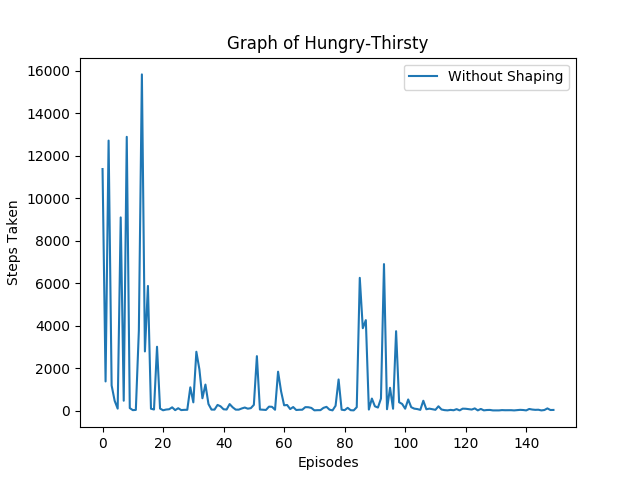
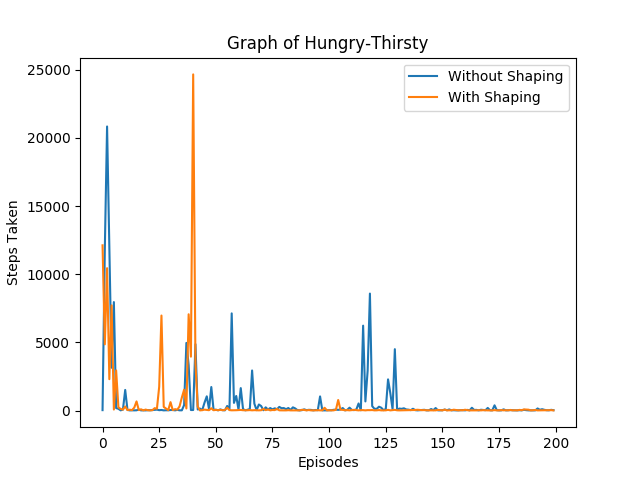
RS added to Hungry-Thirsty

diff --git a/player.py b/player.py
@@ -22,23 +22,23 @@ class player:
 			next_state-=n*n
 		return next_state,reward,finished
 
-	def transition_with_reward_shaping(self,state,action,type):
+	def transition_with_reward_shaping(self,state,action,tor):
 		n = self.grid.n
 		collected = int(state/(n*n))
 		x = int((state%(n*n))/n)
 		y = state%n
 		[x1,y1,collected1,reward,finished]=self.grid.take_action(x,y,action)
-		reward = reward + self.reward_self(x,y,collected,x1,y1,collected1,type)
+		reward = reward + self.reward_self(x,y,collected,x1,y1,collected1,tor)
 		self.states.append([x1,y1])
 		next_state=int(collected1*n*n + x1*n + y1)
 		if finished:
 			next_state-=n*n
 		return next_state,reward,finished
 
-	def reward_self(self,x,y,collected,x1,y1,collected1,type):
-		if type==1:
+	def reward_self(self,x,y,collected,x1,y1,collected1,tor):
+		if tor==1:
 			return self.phi(x,y,collected) - self.phi(x1,y1,collected) 
-		elif type==2:
+		elif tor==2:
 			return self.phi2(x,y,collected) - self.phi2(x1,y1,collected1) 
 
 	def phi(self,x,y,collected):
@@ -74,6 +74,49 @@ class htpl:
 		# if finished:
 		# 	next_state-=n*n
 		return next_state,reward,finished
+
+	def transition_with_reward_shaping(self,state,action,tor):
+		n = self.grid.n
+		# collected = int(state/(n*n))
+		t = int(state/(n*n));
+		temp = state%(n*n);
+
+		x = int((temp)/n)
+		y = temp%n
+		[x1,y1,t1,reward,finished]=self.grid.take_action(x,y,t,action)
+		reward = reward + self.reward_self(x,y,t,x1,y1,t1,tor)
+		self.states.append([x1,y1])
+		next_state=int(t1*n*n + x1*n + y1)
+		# if finished:
+		# 	next_state-=n*n
+		return next_state,reward,finished
+
+	def reward_self(self,x,y,t,x1,y1,t1,tor):
+		if tor == 1:
+			return self.phi(x,y,t) - self.phi(x1,y1,t1)
+
+	def phi(self,x,y,t):
+		distf = abs(self.grid.wpos[0] - self.grid.fpos[0]) + abs(self.grid.wpos[1] - self.grid.fpos[1])
+		dist =  abs(self.grid.wpos[0] - x) + abs(self.grid.wpos[1] - y)
+		disf =  abs(self.grid.fpos[0] - x) + abs(self.grid.fpos[1] - y)
+		p = self.grid.p
+		v0 = (1-p)**distf
+		ezero = 2*(1-v0)/(p*v0) - distf
+		v1 = (1-p)**disf
+		egen = 2*(1-v1)/p - (v1)*disf + (ezero + dist)*(1-v1)
+		if t == 0:
+			# return dist + distf
+			if p == 0:
+				return dist + distf
+			else:
+				return dist + ezero
+		elif t==1:
+	 		# return disf
+	 		if p == 0:
+	 			return disf
+	 		else:
+	 			return egen
+	 	 	 
 
 	def reset(self):
 		self.states=[[0,0]]

diff --git a/main.py b/main.py
@@ -16,7 +16,7 @@ n=10
 p=0.1
 eps = 1
 num_actions = 4
-num_episode = 150
+num_episode = 200
 lr = 0.5
 
 #######Flag positions############
@@ -53,23 +53,33 @@ action_map2 = {0:"\u2191",1:"\u2193",2:"\u2192",3:"\u2190"}
 grid = htgrid(n,p,allowed,fpos,wpos,"Optimal Action Without Shaping")
 
 pl = htpl(grid)
-
-Q,stepsPerEpisode=q_learning(pl,lr,eps,num_episode,num_states,num_actions,0)
+res = np.zeros(num_episode)
+for x in range(0,10):
+	Q,stepsPerEpisode = q_learning(pl,lr,eps,num_episode,num_states,num_actions,0)
+	res = res + np.array(stepsPerEpisode)
+res = res/10
 print(estimate_V(Q,num_states,num_actions))
 gui=show_Q_path(n,Q,action_map2,pl,"path without shaping")
 
-plt.plot(range(num_episode),stepsPerEpisode,label='Without Shaping')
+# plt.plot(range(num_episode),res,label='Without Shaping')
+plt.plot(range(num_episode),np.cumsum(res),label='Without Shaping')
 
 #############################################################################################
 
 # grid.__init__(n,p,flag_pos,allowed,"Optimal Action With Shaping")
-# pl.__init__(grid)
-
+grid.__init__(n,p,allowed,fpos,wpos,"Optimal Action With Shaping")
+pl.__init__(grid)
+res = np.zeros(num_episode)
+for x in range(0,10):
+	Q_shaping,stepsPerEpisode_shaping = q_learning(pl,lr,eps,num_episode,num_states,num_actions,1)
+	res = res + np.array(stepsPerEpisode_shaping)
+res = res/10
 # Q_shaping,stepsPerEpisode_shaping=q_learning(pl,lr,eps,num_episode,num_states,num_actions,1)
-# print(estimate_V(Q_shaping,num_states,num_actions))
-# gui=show_Q_path(n,Q_shaping,action_map2,pl,"path with shaping")
+print(estimate_V(Q_shaping,num_states,num_actions))
+gui=show_Q_path(n,Q_shaping,action_map2,pl,"path with shaping")
 
-# plt.plot(range(num_episode),stepsPerEpisode_shaping,label='With Shaping')
+# plt.plot(range(num_episode),res,label='With Shaping')
+plt.plot(range(num_episode),np.cumsum(res),label='With Shaping')
 #############################################################################################
 
 # grid.__init__(n,p,flag_pos,allowed,"Optimal Action With Shaping 2")
@@ -109,5 +119,5 @@ plt.title("Graph of Hungry-Thirsty")
 plt.xlabel("Episodes")
 plt.ylabel("Steps Taken")
 plt.legend()
-plt.savefig('htp_0.png')
+plt.savefig('htp_01_avg.png')
 plt.show()
